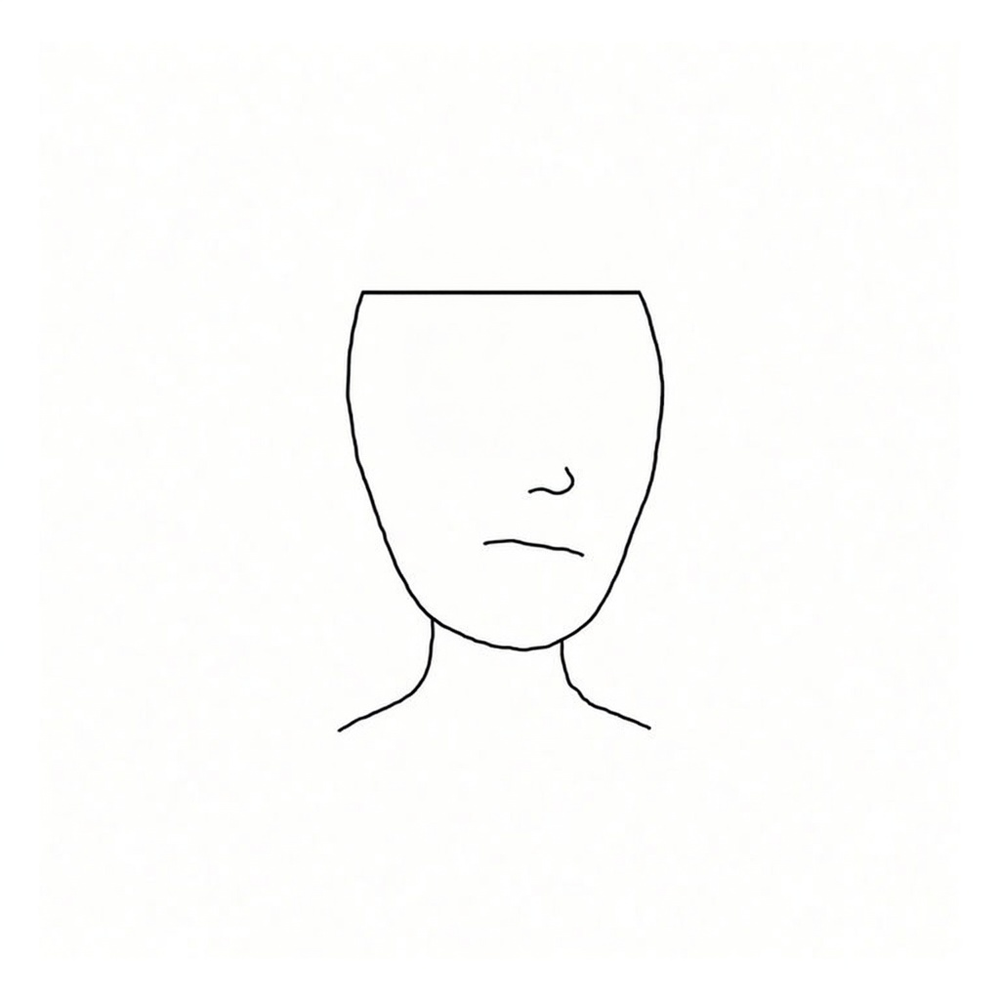
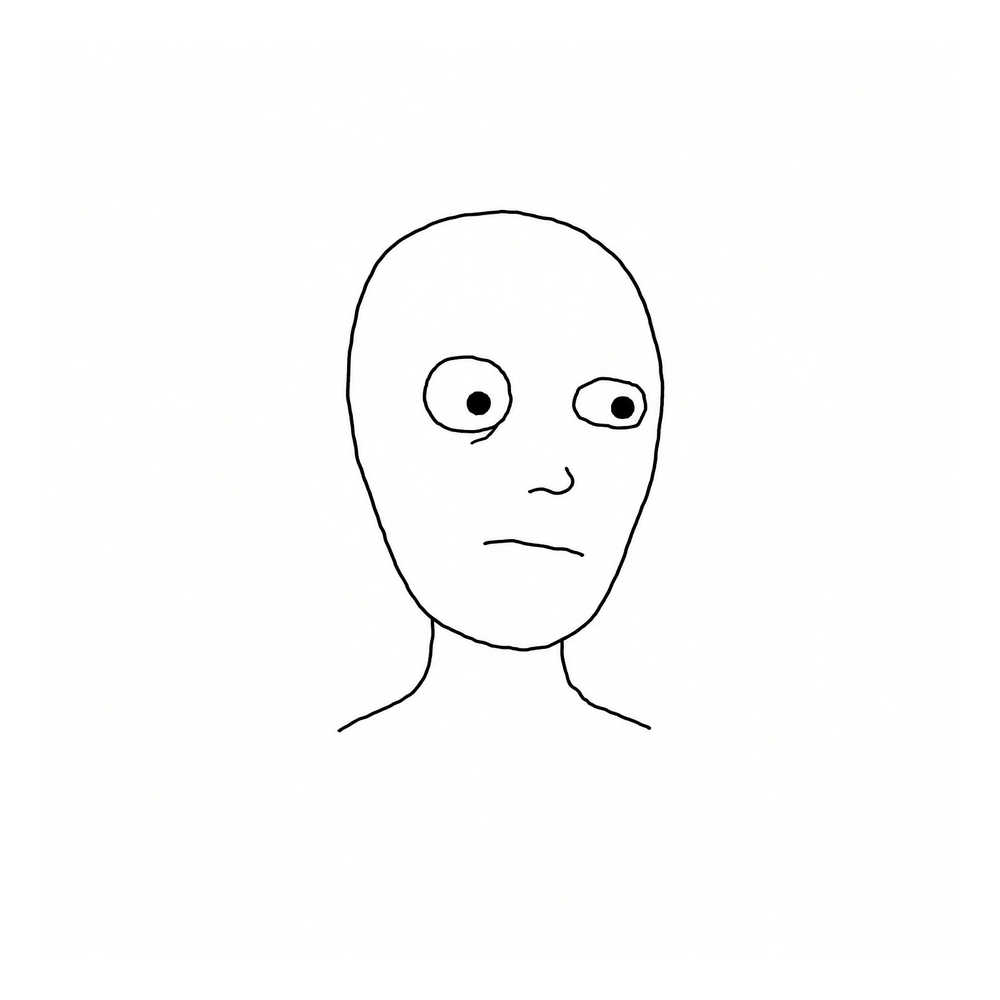
Reject low-quality geometry rebuild; set quality master standard
Restores full DNA base and documents quality-first trait rebuild:
cohesive Wogrok line art first, then extract proper opaque/ink layers.

diff --git a/docs/QUALITY_STANDARD.md b/docs/QUALITY_STANDARD.md
@@ -1,0 +1,41 @@
+# Quality standard (non-negotiable)
+
+The failed “geometry beanie + sticker armor” proof was **not acceptable**.
+Trait rebuilds must look like the original Wogrok line art — not Clip Art.
+
+## Gold standard for this project
+
+`work/quality_masters/beanie_knight_beard_chain_moon.png`
+
+That image is the bar: same exhausted Wogrok DNA, cohesive drawing, solid
+beanie (no skull bleed-through), continuous chain, readable armor.
+
+## How we rebuild traits (v2, quality-first)
+
+1. **Always start from the full DNA base**  
+   `work/legacy_v1_layers/wogrok_base_full_v1.png` (canonical line art).
+
+2. **Generate a cohesive full character** with the trait(s) via image edit  
+   Same head, same line weight, same deadpan face. Not a floating sticker.
+
+3. **Then extract the layer** from that master:
+   - **Opaque covers** (clothing, headwear, eyes): solid white (or color) fill
+     + black lines; **no face/head leftover** in clothing; hats fully hide skull.
+   - **Ink overlays** (mouth, chain, moon, tattoos): continuous dark strokes only;
+     never sparse dotted garbage.
+
+4. **QA on magenta** for every opaque layer: object only, no ghost face.
+5. **QA composited** on base: must still look like Wogrok at 128px.
+
+## What is forbidden
+
+- Flat “open forehead” bases that make him look like a box
+- PIL ellipse beanies / primitive shapes as final art
+- Transparent outline-only clothing/hats
+- Dotted chains from bad diff extraction
+- Shipping anything that looks worse than the pre-layer master drawing
+
+## Layer architecture still stands
+
+See `LAYER_ARCHITECTURE.md` for stack order and opaque vs ink.
+Architecture is right. **Execution must match the quality master.**
